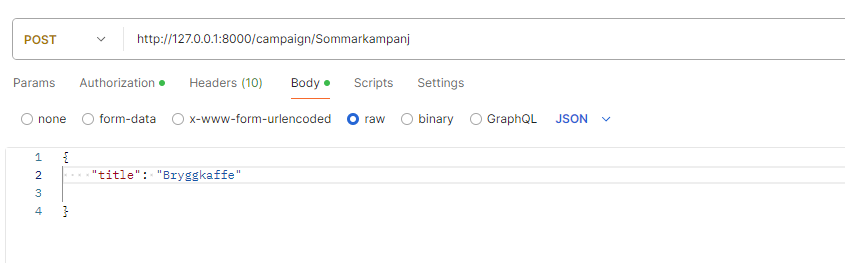
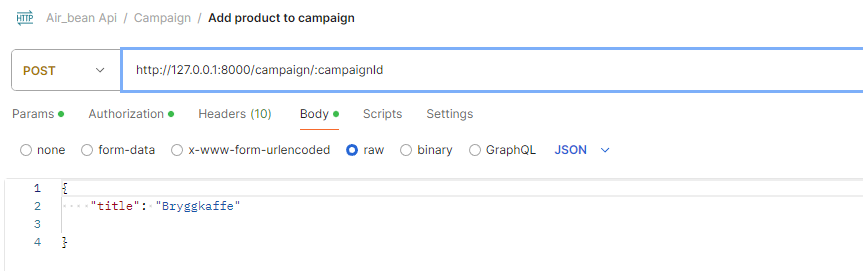
edited read me

diff --git a/src/services/orderService.js b/src/services/orderService.js
@@ -2,8 +2,9 @@ import { cartDb, orderDb } from '../config/db.js';
 
 //Beställning som gäst
 async function createguestOrder(req, res) {
+  const cartId = req.params.cartId;
   try {
-    const cart = await cartDb.find({});
+    const cart = await cartDb.find({ cartId });
     if (cart.length === 0) {
       return res.status(400).json({ message: 'Cart is empty' });
     }
@@ -50,8 +51,10 @@ async function createguestOrder(req, res) {
 
 //Beställning som inloggad användare:
 async function createOrder(req, res) {
+  const cartId = req.params.cartId;
+
   try {
-    const cart = await cartDb.find({});
+    const cart = await cartDb.find({ cartId });
     if (cart.length === 0) {
       return res.status(400).json({ message: 'Cart is empty' });
     }

diff --git a/src/routes/order.js b/src/routes/order.js
@@ -10,10 +10,10 @@ import { authenticateToken } from '../middleware/authToken.js';
 const orderRouter = Router();
 
 // "POST" /order genomför beställning
-orderRouter.post('/', authenticateToken, createOrder);
+orderRouter.post('/:cartId', authenticateToken, createOrder);
 
 //Post /order/guest
-orderRouter.post('/guest', createguestOrder);
+orderRouter.post('/guest/:cartId', createguestOrder);
 
 // "GET" /order visar alla ordrar och total summa
 orderRouter.get('/user/:userId', getUserOrders);

diff --git a/README.md b/README.md
@@ -2,11 +2,9 @@
 
 Individuellt projekt i kursen backend med Node.js för Lina Persson Signell YHFE23
 
-# Base URL:
+# Base URL and authorization:
 
-http://localhost:8000
-
-# Authentication Token:
+![Base URL and authorization](images/baseUrlAndToken.png)
 
 ## /info
 
@@ -14,7 +12,7 @@ Detta anrop används för att hämta information om Air Bean. Anropet skickas so
 
 ### URL:
 
-![Alt text](images/.png)
+![Info url](images/info.png.png)
 
 ## /users/register
 
@@ -64,7 +62,7 @@ Detta anrop används för att redigera en product. Anropen skickas som POST-för
 
 ![Edit product](images/editProduktBodyUrl.png)
 
-## /products/campain
+## /campaign
 
 Detta anrop används för lägga till en kampanj. Anropen skickas som POST-förfrågan. OM anropet lyckas returneras bekräftelse.
 
@@ -72,21 +70,21 @@ Detta anrop används för lägga till en kampanj. Anropen skickas som POST-förf
 
 ![Start Campaign](images/startCampaign.png)
 
-## /products/campain/:campaignTitle
+## campain/:campaignId
 
 Detta anrop används för lägga till varor en kampanj. Anropen skickas som POST-förfrågan. OM anropet lyckas returneras bekräftelse.
 
 ### URL:
 
-![Start Campaign](images/startCampaign.png)
+![Ad Campaign products](images/addCampaignProduct.png)
 
-## /products/campain/:campaignTitle
+## /campain/:campaignTitle
 
 Detta anrop används för att ta bort en kampanj. Anropen skickas som DELETE-förfrågan. OM anropet lyckas returneras bekräftelse.
 
 ### URL:
 
-![Start Campaign](images/deleteCampaign.png)
+![Delete Campaign](images/deleteCampaign.png)
 
 ## /carts/
 
@@ -94,13 +92,31 @@ Detta anrop används för att starta upp en ny kundvagn. Anropen skickas som POS
 
 ### URL:
 
-![Start Campaign](images/newCart.png)
+![New Cart](images/newCart.png)
 
 ## /carts/:cartId
 
 Detta anrop används för att visa varukorgen. Anropen skickas som GET-förfrågan. OM anropet lyckas returneras varukorgen.
 
 ### URL:
+
+![New Cart](images/viewCart.png)
+
+## /carts/:cartId
+
+Detta anrop används för att lägga till produkter i varukorgen. Anropen skickas som POST-förfrågan. OM anropet lyckas returneras bekräftelse.
+
+### URL:
+
+![New Cart](images/addProductCartBodyUrl.png)
+
+## /carts/:cartId/items/:productId
+
+Detta anrop används för att ta bort produkter i varukorgen. Anropen skickas som DELETE-förfrågan. OM anropet lyckas returneras bekräftelse.
+
+### URL:
+
+![New Cart](images/deleteProdCart.png)
 
 ## /order/login
 
